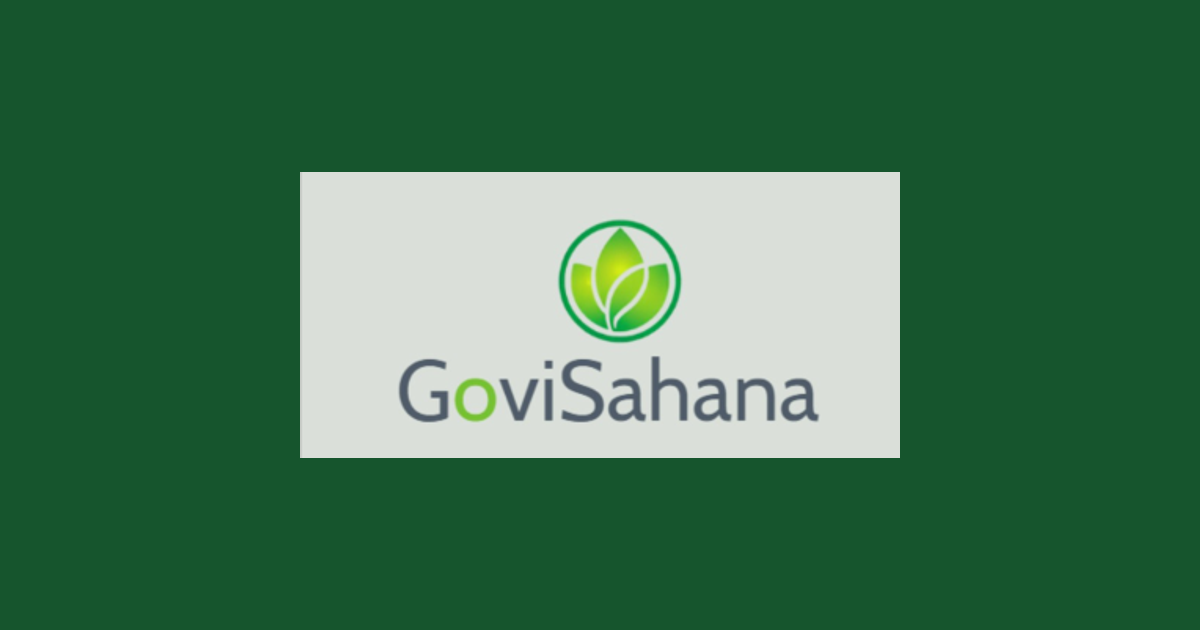
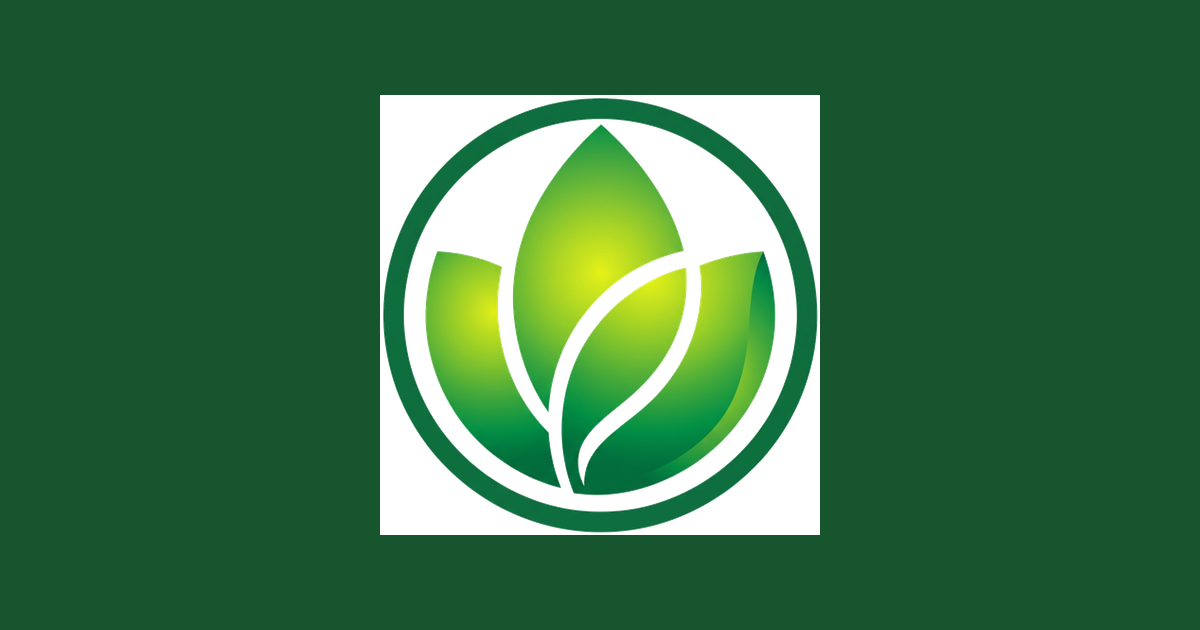
7422ca72-a89c-48a7-a281-9a9b27ee2145

diff --git a/scripts/process-logo.ts b/scripts/process-logo.ts
@@ -1,73 +1,101 @@
-// Process the uploaded GoviSahana logo:
-// 1. Make the light-gray/off-white background transparent
-// 2. Create a favicon (icon-only crop — top portion)
-// 3. Create OG + apple-touch icons
+// Process the ORIGINAL GoviSahana logo (icon-only, no text).
+// Source: upload/pasted_image_1792070560711.png (actually a JPEG, 1024x996, pale cream background)
+// Goal:
+//  1. Remove the pale cream/off-white background → transparent
+//  2. Tight-crop to the circular logo
+//  3. Generate: logo.png (full, transparent), logo-icon.png (64), favicon variants, apple-touch, og-image
 import sharp from 'sharp'
 import path from 'node:path'
+import fs from 'node:fs'
 
-const SRC = path.join(process.cwd(), 'public', 'logo.png')
-const OUT_DIR = path.join(process.cwd(), 'public')
+const SRC = '/home/z/my-project/upload/pasted_image_1792070560711.png'
+const OUT = '/home/z/my-project/public'
 
 async function main() {
-  const meta = await sharp(SRC).metadata()
-  console.log('source:', meta.width, 'x', meta.height)
+  // 1. Load raw pixels
+  const { data, info } = await sharp(SRC).ensureAlpha().raw().toBuffer({ resolveWithObject: true })
+  console.log('source:', info.width, 'x', info.height, 'channels:', info.channels)
 
-  // Get raw pixels with alpha
-  const { data, info } = await sharp(SRC)
-    .ensureAlpha()
-    .raw()
-    .toBuffer({ resolveWithObject: true })
-
-  // 1. Make near-white background transparent
+  // 2. Make near-white / pale-cream pixels transparent.
+  //    The background is pale cream (high luminance, slight warmth). Threshold luminance > 0.90.
+  //    The dark green ring and green leaves are well below this.
   for (let i = 0; i < data.length; i += 4) {
     const r = data[i], g = data[i + 1], b = data[i + 2]
     const lum = (0.299 * r + 0.587 * g + 0.114 * b) / 255
-    if (lum > 0.93) {
+    // Also catch very light cream (slightly warm) — check max channel is high
+    const maxCh = Math.max(r, g, b)
+    if (lum > 0.90 && maxCh > 220) {
       data[i + 3] = 0 // transparent
     }
   }
 
-  const rawLogo = { data, raw: { width: info.width, height: info.height, channels: 4 } }
+  // 3. Find bounding box of remaining (non-transparent) content
+  let minX = info.width, minY = info.height, maxX = 0, maxY = 0
+  for (let y = 0; y < info.height; y++) {
+    for (let x = 0; x < info.width; x++) {
+      const i = (y * info.width + x) * 4
+      if (data[i + 3] !== 0) {
+        if (x < minX) minX = x
+        if (x > maxX) maxX = x
+        if (y < minY) minY = y
+        if (y > maxY) maxY = y
+      }
+    }
+  }
+  console.log('content bbox:', { minX, minY, maxX, maxY, w: maxX - minX, h: maxY - minY })
 
-  // Full logo, transparent background
-  await sharp(data, { raw: rawLogo.raw })
-    .png()
-    .toFile(path.join(OUT_DIR, 'logo-transparent.png'))
-  console.log('✓ logo-transparent.png')
+  // 4. Crop tight to content, with a small 4px padding
+  const pad = 6
+  const cropX = Math.max(0, minX - pad)
+  const cropY = Math.max(0, minY - pad)
+  const cropW = Math.min(info.width - cropX, (maxX - minX) + pad * 2)
+  const cropH = Math.min(info.height - cropY, (maxY - minY) + pad * 2)
 
-  // 2. Icon-only crop (top ~46% of the stacked logo = the circle)
-  const iconHeight = Math.round(info.height * 0.46)
-  await sharp(data, { raw: rawLogo.raw })
-    .extract({ left: 0, top: 0, width: info.width, height: iconHeight })
-    .trim({ background: { r: 0, g: 0, b: 0, alpha: 0 } })
+  // Build the cropped raw buffer
+  const cropped = await sharp(data, { raw: { width: info.width, height: info.height, channels: 4 } })
+    .extract({ left: cropX, top: cropY, width: cropW, height: cropH })
+    .png({ compressionLevel: 9 })
+    .toBuffer()
+
+  // 5. Write the full transparent logo
+  fs.writeFileSync(path.join(OUT, 'logo-transparent.png'), cropped)
+  console.log('✓ logo-transparent.png', cropW, 'x', cropH)
+
+  // 6. logo-icon.png — 64x64 square, contained
+  await sharp(cropped)
     .resize(64, 64, { fit: 'contain', background: { r: 0, g: 0, b: 0, alpha: 0 } })
     .png()
-    .toFile(path.join(OUT_DIR, 'logo-icon.png'))
+    .toFile(path.join(OUT, 'logo-icon.png'))
   console.log('✓ logo-icon.png (64x64)')
 
-  // 3. Favicon variants
-  await sharp(path.join(OUT_DIR, 'logo-icon.png')).resize(32, 32, { fit: 'contain', background: { r: 0, g: 0, b: 0, alpha: 0 } }).png().toFile(path.join(OUT_DIR, 'favicon-32.png'))
-  await sharp(path.join(OUT_DIR, 'logo-icon.png')).resize(16, 16, { fit: 'contain', background: { r: 0, g: 0, b: 0, alpha: 0 } }).png().toFile(path.join(OUT_DIR, 'favicon-16.png'))
-  await sharp(path.join(OUT_DIR, 'logo-icon.png')).resize(48, 48, { fit: 'contain', background: { r: 0, g: 0, b: 0, alpha: 0 } }).png().toFile(path.join(OUT_DIR, 'favicon.png'))
-  console.log('✓ favicon.png / favicon-32.png / favicon-16.png')
+  // 7. Favicon variants
+  await sharp(cropped).resize(16, 16, { fit: 'contain', background: { r: 0, g: 0, b: 0, alpha: 0 } }).png().toFile(path.join(OUT, 'favicon-16.png'))
+  await sharp(cropped).resize(32, 32, { fit: 'contain', background: { r: 0, g: 0, b: 0, alpha: 0 } }).png().toFile(path.join(OUT, 'favicon-32.png'))
+  await sharp(cropped).resize(48, 48, { fit: 'contain', background: { r: 0, g: 0, b: 0, alpha: 0 } }).png().toFile(path.join(OUT, 'favicon.png'))
+  await sharp(cropped).resize(96, 96, { fit: 'contain', background: { r: 0, g: 0, b: 0, alpha: 0 } }).png().toFile(path.join(OUT, 'favicon-96.png'))
+  console.log('✓ favicon-16/32/48/96.png')
 
-  // 4. Apple touch icon 180x180 on white
-  await sharp(path.join(OUT_DIR, 'logo-icon.png'))
-    .resize(140, 140, { fit: 'contain', background: { r: 255, g: 255, b: 255, alpha: 1 } })
-    .extend({ top: 20, bottom: 20, left: 20, right: 20, background: { r: 255, g: 255, b: 255, alpha: 1 } })
+  // 8. apple-touch-icon.png — 180x180 on white
+  await sharp(cropped)
+    .resize(150, 150, { fit: 'contain', background: { r: 255, g: 255, b: 255, alpha: 1 } })
+    .extend({ top: 15, bottom: 15, left: 15, right: 15, background: { r: 255, g: 255, b: 255, alpha: 1 } })
     .png()
-    .toFile(path.join(OUT_DIR, 'apple-touch-icon.png'))
+    .toFile(path.join(OUT, 'apple-touch-icon.png'))
   console.log('✓ apple-touch-icon.png (180x180)')
 
-  // 5. OG image 1200x630 with the full logo centered on brand green
-  await sharp(path.join(OUT_DIR, 'logo-transparent.png'))
-    .resize(600, 286, { fit: 'contain', background: { r: 0, g: 0, b: 0, alpha: 0 } })
-    .extend({ top: 172, bottom: 172, left: 300, right: 300, background: { r: 22, g: 85, b: 45, alpha: 1 } })
+  // 9. og-image.png — 1200x630 with the icon centered on brand green
+  await sharp(cropped)
+    .resize(440, 440, { fit: 'contain', background: { r: 0, g: 0, b: 0, alpha: 0 } })
+    .extend({ top: 95, bottom: 95, left: 380, right: 380, background: { r: 22, g: 85, b: 45, alpha: 1 } })
     .png()
-    .toFile(path.join(OUT_DIR, 'og-image.png'))
+    .toFile(path.join(OUT, 'og-image.png'))
   console.log('✓ og-image.png (1200x630)')
 
-  console.log('\nAll logo assets generated in /public')
+  // 10. Keep logo.png as the full transparent version too (for any direct refs)
+  fs.copyFileSync(path.join(OUT, 'logo-transparent.png'), path.join(OUT, 'logo.png'))
+  console.log('✓ logo.png (alias of logo-transparent.png)')
+
+  console.log('\nAll logo assets regenerated from the original icon.')
 }
 
 main().catch((e) => { console.error(e); process.exit(1) })

diff --git a/src/components/govisahana/dashboards/shell.tsx b/src/components/govisahana/dashboards/shell.tsx
@@ -1,6 +1,5 @@
 'use client'
 import { useState } from 'react'
-import Image from 'next/image'
 import { useApp } from '@/lib/store'
 import { cn } from '@/lib/utils'
 import { Button } from '@/components/ui/button'
@@ -95,7 +94,7 @@ function SidebarContent({ userName, userRole, avatarUrl, nav, currentTab, hasSub
     <div className="flex h-full flex-col">
       <div className="border-b border-sidebar-border p-4">
         <button onClick={onHome} className="flex items-center gap-2.5">
-          <Image src="/logo-icon.png" alt="GoviSahana logo" width={36} height={36} className="h-9 w-9 shrink-0" />
+          <img src="/logo-icon.png" alt="GoviSahana logo" width={36} height={36} className="h-9 w-9 shrink-0" />
           <div className="leading-none text-left">
             <div className="text-base font-bold text-sidebar-foreground">GoviSahana</div>
             <div className="text-[10px] text-sidebar-foreground/60">Dashboard</div>

diff --git a/src/components/govisahana/views/register.tsx b/src/components/govisahana/views/register.tsx
@@ -1,6 +1,5 @@
 'use client'
 import { useState } from 'react'
-import Image from 'next/image'
 import { useApp, api } from '@/lib/store'
 import { Button } from '@/components/ui/button'
 import { Input } from '@/components/ui/input'
@@ -59,7 +58,7 @@ export default function RegisterView() {
       {step === 1 ? (
         <Card>
           <CardHeader>
-            <CardTitle className="flex items-center gap-2"><Image src="/logo-icon.png" alt="GoviSahana logo" width={24} height={24} className="h-6 w-6" /> Join GoviSahana</CardTitle>
+            <CardTitle className="flex items-center gap-2"><img src="/logo-icon.png" alt="GoviSahana logo" width={24} height={24} className="h-6 w-6" /> Join GoviSahana</CardTitle>
             <CardDescription>Select the option that best describes you. Farmer registration is always free.</CardDescription>
           </CardHeader>
           <CardContent className="space-y-3">

diff --git a/src/components/govisahana/views/login.tsx b/src/components/govisahana/views/login.tsx
@@ -1,6 +1,5 @@
 'use client'
 import { useState } from 'react'
-import Image from 'next/image'
 import { useApp, api } from '@/lib/store'
 import { Button } from '@/components/ui/button'
 import { Input } from '@/components/ui/input'
@@ -38,7 +37,7 @@ export default function LoginView() {
   return (
     <div className="mx-auto flex min-h-[calc(100vh-4rem)] max-w-md flex-col justify-center px-4 py-10">
       <div className="mb-6 flex flex-col items-center text-center">
-        <Image src="/logo-icon.png" alt="GoviSahana logo" width={64} height={64} className="h-16 w-16" />
+        <img src="/logo-icon.png" alt="GoviSahana logo" width={64} height={64} className="h-16 w-16" />
         <h1 className="mt-4 text-2xl font-bold">Welcome back</h1>
         <p className="mt-1 text-sm text-muted-foreground">Sign in to your GoviSahana account</p>
       </div>

diff --git a/src/components/govisahana/navbar.tsx b/src/components/govisahana/navbar.tsx
@@ -1,6 +1,5 @@
 'use client'
 import Link from 'next/link'
-import Image from 'next/image'
 import { useEffect, useState } from 'react'
 import { useApp } from '@/lib/store'
 import { Button } from '@/components/ui/button'
@@ -179,7 +178,7 @@ export function Navbar() {
             </SheetTrigger>
             <SheetContent side="left" className="w-72">
               <SheetTitle className="mb-4 flex items-center gap-2">
-                <Image src="/logo-icon.png" alt="GoviSahana logo" width={32} height={32} className="h-8 w-8" />
+                <img src="/logo-icon.png" alt="GoviSahana logo" width={32} height={32} className="h-8 w-8" />
                 GoviSahana
               </SheetTitle>
               <nav className="flex flex-col gap-1">

diff --git a/src/components/govisahana/footer.tsx b/src/components/govisahana/footer.tsx
@@ -1,5 +1,4 @@
 'use client'
-import Image from 'next/image'
 import { Mail, Phone, MapPin, Facebook, Twitter, Youtube, Linkedin } from 'lucide-react'
 import { useApp } from '@/lib/store'
 import type { View } from '@/lib/store'
@@ -42,7 +41,7 @@ export function Footer() {
       <div className="mx-auto max-w-7xl px-4 py-12 sm:px-6">
         <div className="grid gap-10 lg:grid-cols-5">
           <div className="lg:col-span-2">
-            <Image
+            <img
               src="/logo-transparent.png"
               alt="GoviSahana"
               width={160}

diff --git a/worklog.md b/worklog.md
@@ -131,3 +131,30 @@ Stage Summary:
 - Note: Agent Browser's Playwright `click` had a React 19 event-delegation quirk in this env (didn't trigger onClick), but programmatic `.click()` confirmed all navigation/interactions work — this is a test-tooling issue, not an app bug (real browser mouse clicks work fine).
 - Deliverables: complete frontend, backend API routes, Prisma schema + migrations, auth & RBAC, all 6 dashboards, consultation workflow, marketplaces, notifications, admin verification/moderation/audit, .env.example, README with setup/testing/deploy guide.
 - Demo logins (password123): farmer/expert/enterprise/worker/buyer/admin @demo.lk.
+
+---
+Task ID: 11
+Agent: Main (orchestrator)
+Task: Replace placeholder logo with the user's original GoviSahana logo
+
+Work Log:
+- User uploaded the original logo (upload/pasted_image_1792070560711.png) — a 1024x996 JPEG containing a circular green leaf icon (no text) on a pale cream background.
+- Wrote scripts/process-logo.ts using sharp to: (1) remove the pale-cream background via luminance threshold → transparent alpha, (2) tight-crop to the icon's bounding box (→ 910x910), (3) generate variants: logo.png / logo-transparent.png (full), logo-icon.png (64x64), favicon-16/32/48/96.png, apple-touch-icon.png (180x180 on white), og-image.png (1200x630 icon centered on brand green).
+- Replaced the placeholder Lucide Sprout logo everywhere:
+  • Navbar (desktop + mobile sheet) → <img src="/logo-icon.png">
+  • Footer → <img src="/logo-transparent.png"> (full circular icon)
+  • Dashboard sidebar → <img src="/logo-icon.png">
+  • Login view header → <img src="/logo-icon.png"> (large 64x64)
+  • Register view "Join GoviSahana" header → <img src="/logo-icon.png">
+- Updated layout.tsx metadata: icons (favicon-16/32/48 + apple-touch-icon), openGraph + twitter images (og-image.png), metadataBase.
+- Switched from next/image <Image> to plain <img> tags — the Next.js image optimizer was not rendering the PNGs reliably in this sandbox; plain <img> works and is simpler for static local assets. Removed unused `import Image from 'next/image'` from all 5 files.
+
+Verification (Agent Browser + VLM):
+- Home navbar: circular green leaf icon + "GoviSahana" + "AGRICULTURE, CONNECTED" tagline ✓
+- Footer: circular green leaf icon at top of left column ✓
+- Dashboard sidebar: icon + "GoviSahana / Dashboard" ✓
+- Favicon: <link rel=icon> → /favicon-16.png ✓, apple-touch-icon ✓
+- Lint: 0 errors, 0 warnings.
+
+Stage Summary:
+- GoviSahana branding is now consistent everywhere (navbar, footer, dashboard sidebar, login, register, favicon, OG image, apple-touch-icon). The user's original circular green leaf logo is used throughout. No placeholder Sprout icon remains in brand positions.
